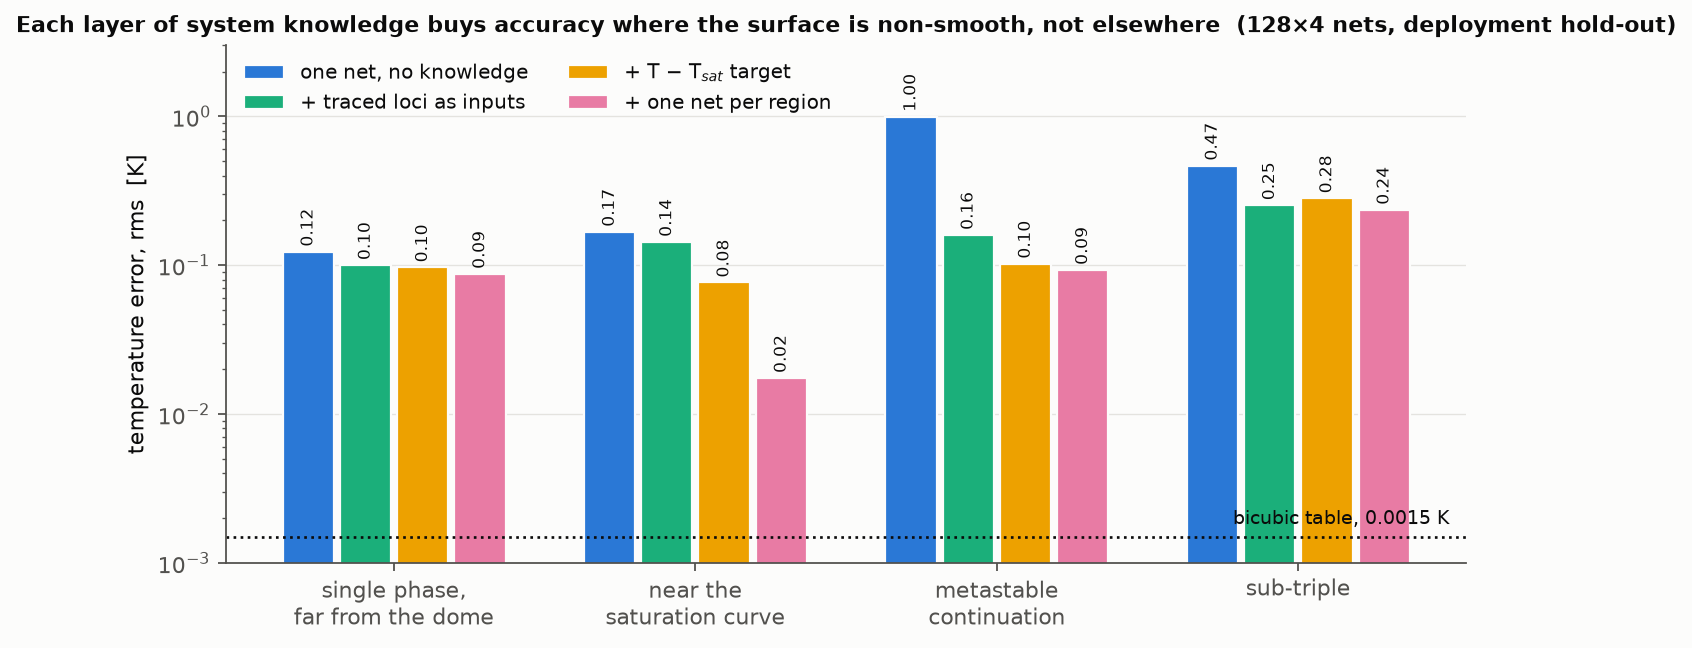
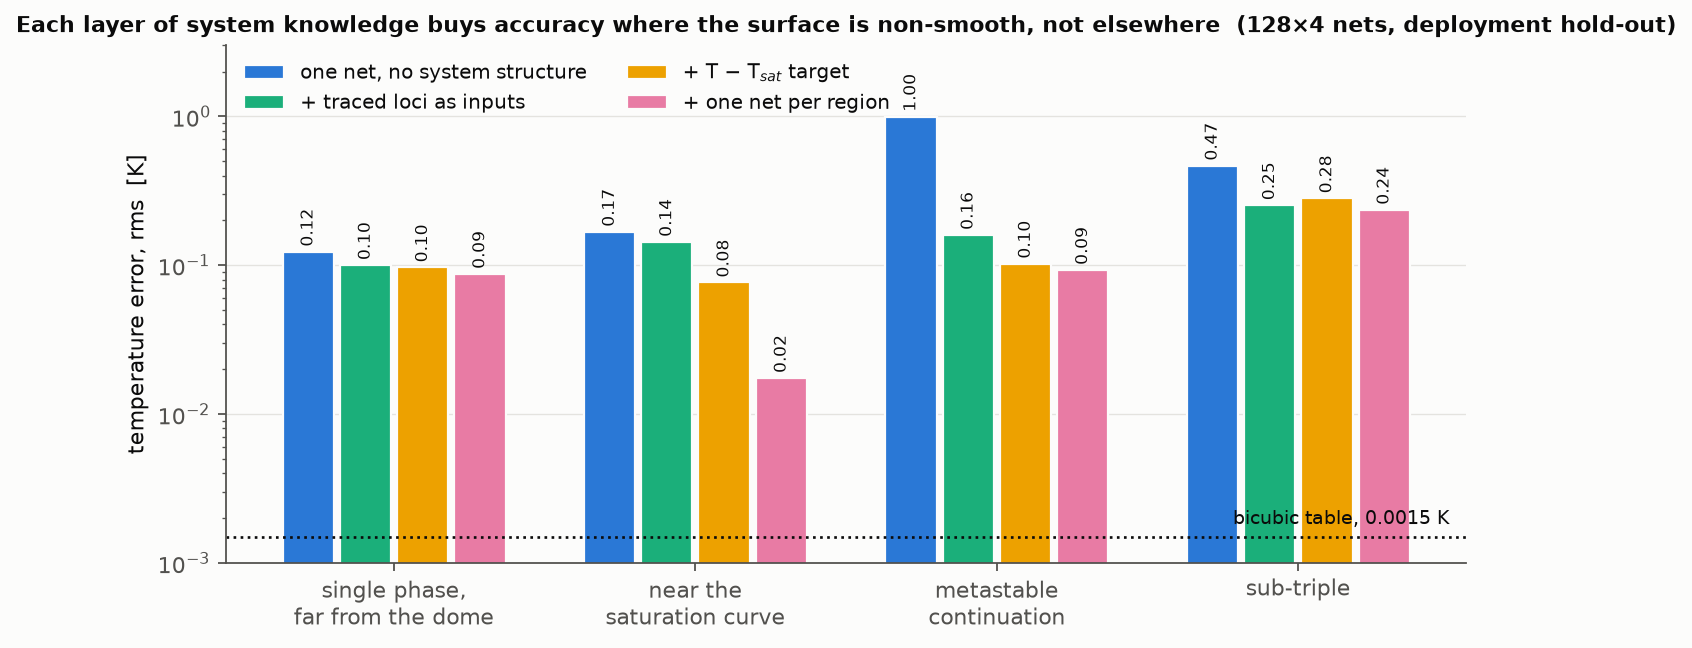
outline and fig3: replace the 'blind ML' framing with 'a surrogate is only as good as the system knowledge built into it'

Changed region(s): [[0.2459, 0.0926, 0.5225, 0.1852]]

diff --git a/Exec/EOS_Surrogate/make_figures.py b/Exec/EOS_Surrogate/make_figures.py
@@ -114,7 +114,7 @@ def fig3_regime_errors():
         for r in rs:
             if r['model'] == model and r['evalset'] == 'deploy-holdout' and r['regime'] == reg: return float(r['rmsT_K'])
         return float('nan')
-    models = ['mono', 'dome', 'domeres', 'experts']; names = {'mono': 'one net, no knowledge', 'dome': '+ traced loci as inputs',
+    models = ['mono', 'dome', 'domeres', 'experts']; names = {'mono': 'one net, no system structure', 'dome': '+ traced loci as inputs',
                                                              'domeres': '+ T − T$_{sat}$ target', 'experts': '+ one net per region'}
     regs = ['far', 'near', 'ext', 'sub']
     fig, ax = plt.subplots(figsize=(10, 4.2)); w = 0.19; x = np.arange(len(regs))

diff --git a/Exec/EOS_Surrogate/PRESENTATION_OUTLINE.md b/Exec/EOS_Surrogate/PRESENTATION_OUTLINE.md
@@ -1,6 +1,6 @@
 # Short version (≈ 18 min, 11 slides) — technical but broad audience
 
-The long outline below is the reference; this is the cut to give. One message: **deep knowledge of the system beats blind use of ML — and the platform decides how much a wrong structure costs.** Figures are in `figures/` (`make_figures.py`).
+The long outline below is the reference; this is the cut to give. One message: **a surrogate is only as good as the system knowledge built into it — and the platform decides how much a wrong structure costs.** Figures are in `figures/` (`make_figures.py`).
 
 1. **Title and the one-line claim.** Real-fluid two-phase CO₂ (pipe break, blowdown); the EOS is called a billion times per run; we tried tables, machine learning and the analytic forms on CPUs, a workstation GPU and a datacenter GPU.
 
@@ -10,7 +10,7 @@ The long outline below is the reference; this is the cut to give. One message: *
 
 4. **Convergence of the training cloud is measurable.** `fig2_novelty_ledgers.png`. Each new run's novelty against the union; six runs to zero; resolution adds rare states, physics adds common ones. Point: an active-learning loop you can stop with a number.
 
-5. **Blind ML: what you get.** Half of `fig3_regime_errors.png` (the "one net, no knowledge" bars) and the headline: a net trained on a textbook grid is 4× worse on deployment than one trained on the harvested cloud, and 40–90 K off where it has never been. Sampling is worth 4×.
+5. **The generic starting point: a surrogate without the system's structure.** Half of `fig3_regime_errors.png` (the "one net, no knowledge" bars) and the headline: a net trained on a textbook grid is 4× worse on deployment than one trained on the harvested cloud, and 40–90 K off where it has never been. Sampling is worth 4×.
 
 6. **Each layer of system knowledge, one bar at a time.** Full `fig3_regime_errors.png`: traced loci as inputs (2× overall, 6–10× in the metastable region), the saturation temperature as the target, one net per traced region (10× in pressure; buys a seam). Point: knowledge pays exactly where the surface is non-smooth, and the more *structural* the knowledge, the more it pays.
 
@@ -22,7 +22,7 @@ The long outline below is the reference; this is the cut to give. One message: *
 
 10. **Outlook: mixtures.** The phase-envelope figure from `PHASE_ENVELOPE_PLAN.md` if ready, else one slide of text: everything shown is fluid-agnostic except the backend; composition is one more coordinate for the loci.
 
-11. **Takeaways.** (i) Harvest the deployment distribution before training anything. (ii) Put knowledge in as structure — branches, loci, regions — not as features; the limit of that is a table with analytic reconstruction. (iii) On GPUs, hoist the EOS out of the Newton loop; the device punishes structure, not arithmetic. (iv) Three predictions we wrote down were refuted by the measurements; the instrumentation that refuted them is the part worth keeping.
+11. **Takeaways.** (i) Harvest the deployment distribution before training anything; the system tells you where it lives. (ii) Put knowledge in as structure — branches, loci, regions — not as features; the limit of that is a table with analytic reconstruction. (iii) On GPUs, hoist the EOS out of the Newton loop; the device punishes structure, not arithmetic. (iv) Three predictions we wrote down were refuted by the measurements; the instrumentation that refuted them is the part worth keeping.
 
 Cut from the long version to fit: the microbenchmark kernel table, the weighted-loss and seam details, the refusal test (fold one sentence into slide 6), the Olivia build lessons, and the design-rules slide (now takeaway iii).
 
@@ -35,7 +35,7 @@ Drafted 2026-10-26 from `RESULTS.md` (this directory), `docs/DESIGN_DECISIONS.md
 Two threads, one thesis:
 
 1. **The platform decides the spread, not the ranking.** Table-seeded analytic ≥ analytic PR ≫ analytic Helmholtz on every machine; what the device changes is how hard the wrong *kernel structure* is punished.
-2. **You cannot just throw ML at an EOS.** Where you sample is worth 4×, knowledge of the C1 geometry 2× on average and 6–10× where it matters, structure (routing) another 10× in pressure — and the fully structured limit of that programme is the table, which is still 100× more accurate and 400× faster than the best net.
+2. **Machine learning earns its place here only with the system's structure built in.** Where you sample is worth 4×, knowledge of the C1 geometry 2× on average and 6–10× where it matters, structure (routing) another 10× in pressure — and the fully structured limit of that programme is the table, which is still 100× more accurate and 400× faster than the best net.
 
 ---
 
@@ -55,9 +55,9 @@ Two threads, one thesis:
 
 **6. The seed sweep and the novelty ledger.** Latin-hypercube over reservoir T, quality, ambient P, ambient T, orifice; per-run novelty vs the union. *Figure:* the two ledgers (seedA 6 runs at 128×64: novelty 100 → 0 %; seedB 8 runs at 256×128). Resolution adds **608 buckets but 0.8 % of visits**. The blowdown adds 18 buckets carrying **95 % of its visits** (the near-critical dense fluid nothing else reaches). Message: convergence of the deployment cloud is measurable; refinement adds rare states, physics adds common ones.
 
-**7. The union, and the hard classes a surrogate must face.** 3694 buckets, 317 M visits: 665 sub-triple, **222 Independent-phase inputs with no root on their branch**, T down to 1.7 K (PR bracket floor). A surrogate trained on the valid surface would answer 6 % of the distinct states it meets with no data. Message: "throw ML at it" means training on the valid surface; deployment is neither static nor confined to it.
+**7. The union, and the hard classes a surrogate must face.** 3694 buckets, 317 M visits: 665 sub-triple, **222 Independent-phase inputs with no root on their branch**, T down to 1.7 K (PR bracket floor). A surrogate trained on the valid surface would answer 6 % of the distinct states it meets with no data. Message: a generic surrogate is trained on the valid surface; deployment is neither static nor confined to it.
 
-## Part 2 — You cannot just throw ML at it (6 slides)
+## Part 2 — Machine learning with and without the system's structure (6 slides)
 
 **8. The experiment.** Truth = CAMR's own PR (`pr_eval`). Two training sets: the naive static (T, ρ) grid vs the harvested deployment set (hold-out by bucket). Five models: `mono` (one net, branch flag), `split` (per branch), `dome` (+ traced loci as inputs: distance to saturation, to the branch edge, θ), `domeres` (target $T - T_{sat}(\rho)$), `experts` (one net per branch × region, routed by the loci). Metrics: T, reconstructed P, dT/de, per regime (far / near / metastable / sub-triple).
 
